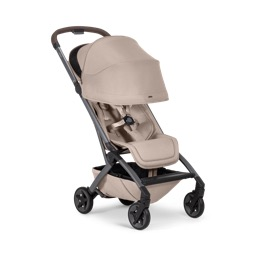
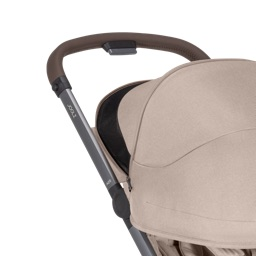
Accordion (Joolz Aer 2): features text + handlebar crop
Tighten the Features panel to Vanessa's Figma spec (node 8722:5310):

- Sub-heading "The details behind the Joolz Aer²" and "Other
  key features" now bold (700), matching Figma
- Feature item text and bullets shift from Joolz deep blue to
  #737373 gray (per Figma) so the small image label reads as
  caption rather than body copy
- Image tiles get the warmer #efebe8 beige background + 4px
  radius instead of the cool gray Bugaboo default
- Replace feature-handlebar.jpg with a tighter chassis crop —
  the previous image showed the full stroller; Figma uses a
  ~2.7x zoom on the handle area

Bugaboo accordion styling is untouched.

diff --git a/src/components/ProductAccordion/ProductAccordion.module.css b/src/components/ProductAccordion/ProductAccordion.module.css
@@ -304,12 +304,37 @@
 .accordion[data-brand="joolz"] .specPanel,
 .accordion[data-brand="joolz"] .boxPanel,
 .accordion[data-brand="joolz"] .panelHeading,
-.accordion[data-brand="joolz"] .featureText,
 .accordion[data-brand="joolz"] .bulletList,
 .accordion[data-brand="joolz"] .specText,
 .accordion[data-brand="joolz"] .boxItem h3 {
   color: var(--brand-text);
   font-family: var(--font-value-sans);
+}
+
+/*
+ * Joolz feature-panel typography & tiles, per Vanessa's Figma spec
+ * (node 8722:5310):
+ *   - Sub-heading "The details behind..." & "Other key features":
+ *     Value Sans Pro Bold (700), #1a1a1a
+ *   - Feature text / bullets: Value Sans Pro Medium, #737373
+ *   - Image tile: warm beige #efebe8, 4px radius
+ */
+.accordion[data-brand="joolz"] .featurePanel .panelHeading {
+  font-weight: 700;
+}
+
+.accordion[data-brand="joolz"] .featureText {
+  color: #737373;
+  font-family: var(--font-value-sans);
+}
+
+.accordion[data-brand="joolz"] .featurePanel .bulletList {
+  color: #737373;
+}
+
+.accordion[data-brand="joolz"] .featureMedia {
+  background: #efebe8;
+  border-radius: 4px;
 }
 
 .accordion[data-brand="joolz"] .boxItem p {